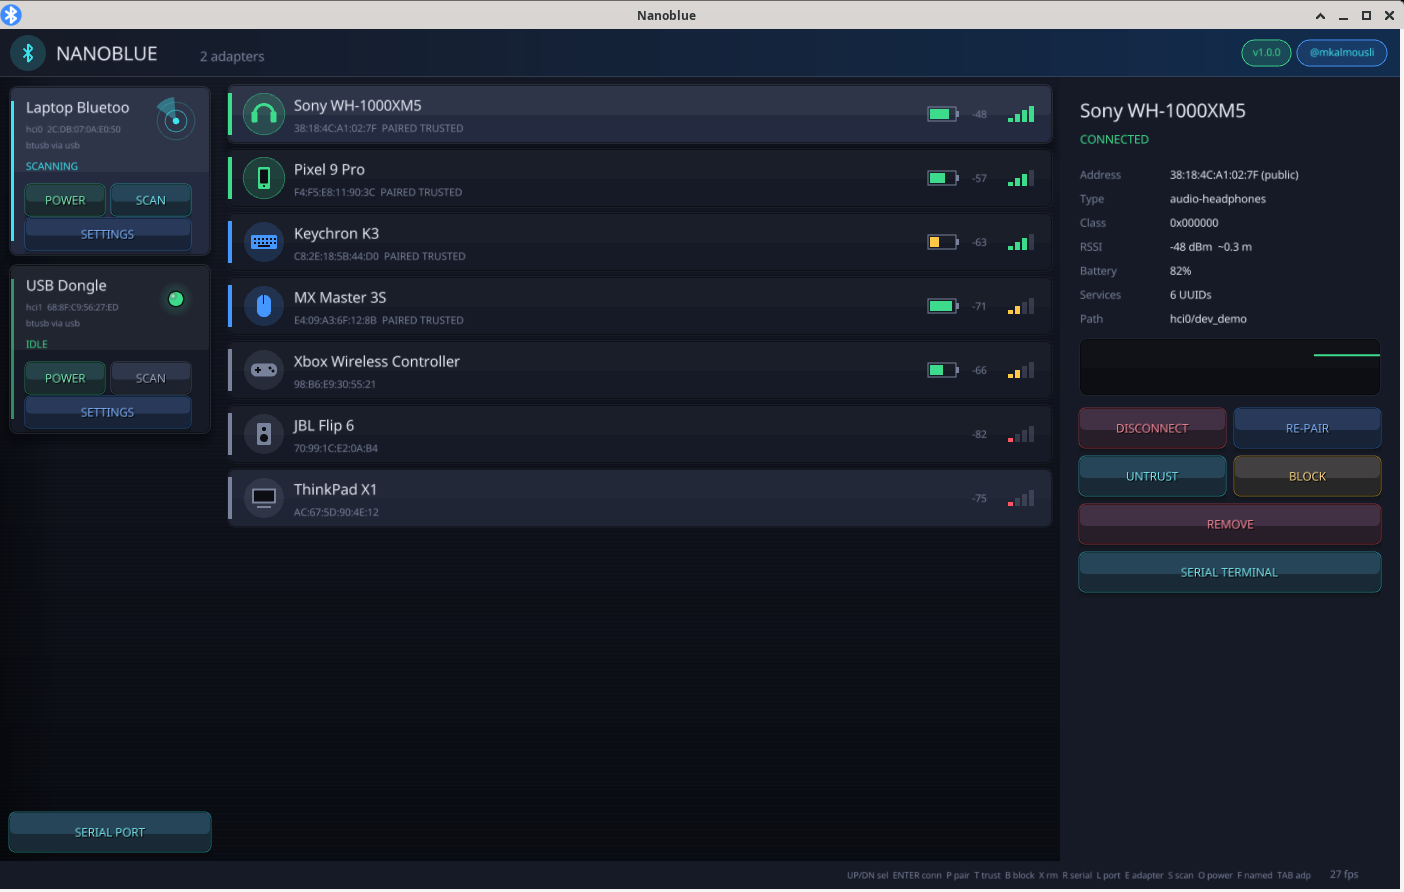
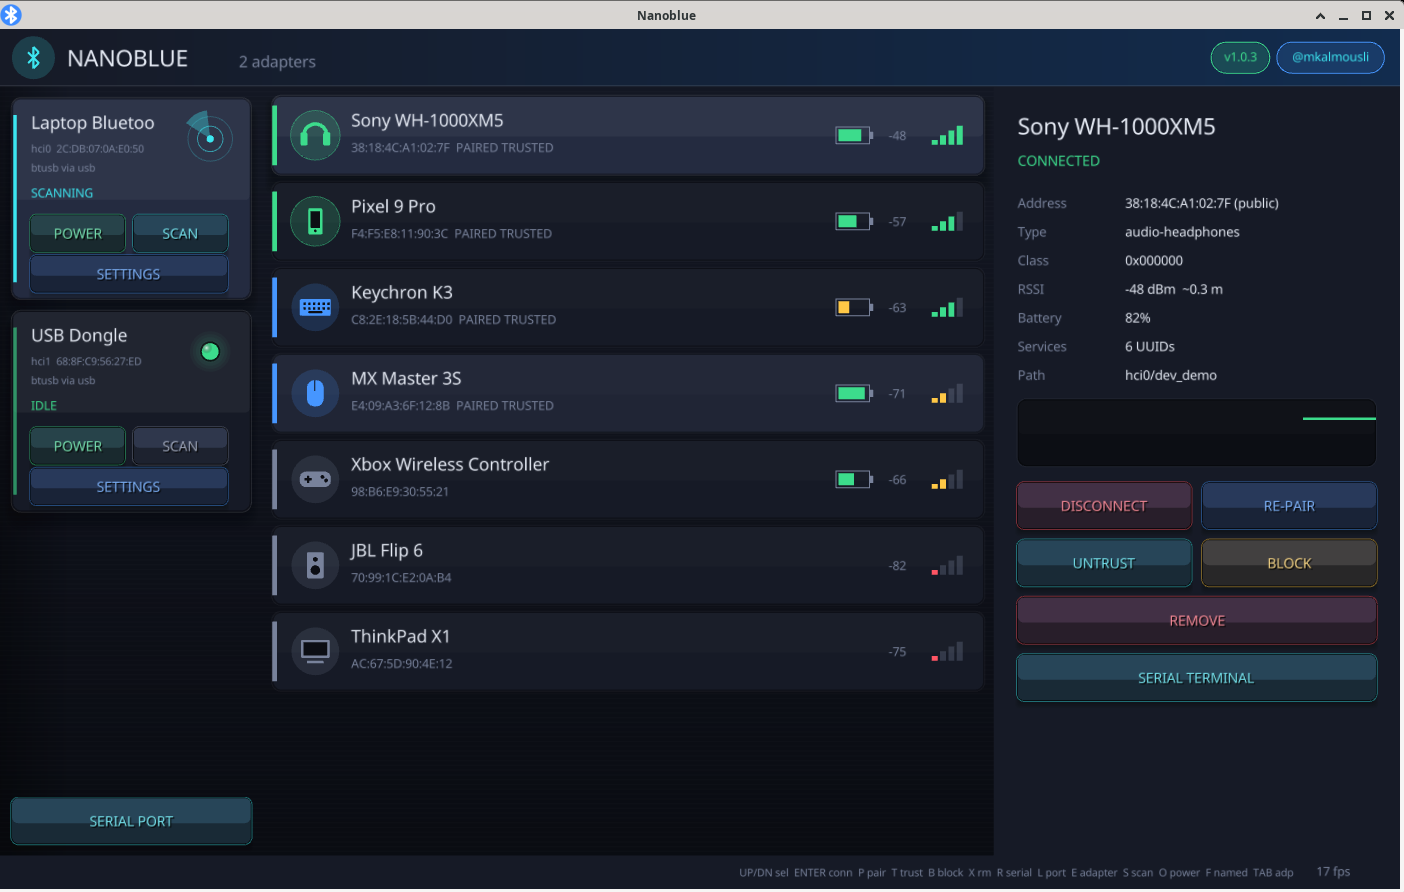
Bigger UI, scrollable sidebar/detail/settings, scrollbars; 1.0.3

diff --git a/src/devs.c b/src/devs.c
@@ -2,7 +2,7 @@
 #include <math.h>
 #include <stdio.h>
 #include <string.h>
-#define ROW 64
+#define ROW 72
 
 #define mix_(c) (Color){(c).r * 3 / 4 + 5, (c).g * 3 / 4 + 5, (c).b * 3 / 4 + 5, 255}
 
@@ -42,6 +42,7 @@ void devlist(Rectangle r, Dev *d, int n, int *sel, float *scroll) {
 		if (bt_busy && !strcmp(bt_busy_path, x->path)) spinner(xr - 120, mid, 10, C_YEL);
 	}
 	EndScissorMode();
+	scrollbar(r, *scroll, n * ROW + 8);
 }
 
 /* last ~15 s of RSSI for the selected device, sampled at 4 Hz */
@@ -65,8 +66,10 @@ static void signal_graph(Rectangle g, const Dev *d) {
 void detail(Rectangle r, const Dev *d) {
 	DrawRectangleRec(r, C_PANEL);
 	if (!d) { DrawText("Select a device", r.x + 20, r.y + 20, 20, C_DIM); return; }
+	static float off;
 	float x = r.x + 20, y = r.y + 20, bw = (r.width - 50) / 2;
 	#define KV(k, ...) (DrawText(k, x, y, 15, C_DIM), DrawText(TextFormat(__VA_ARGS__), x + 90, y, 15, C_FG), y += 24)
+	scroll_begin(r, &off, 540);
 	DrawText(TextFormat("%.20s", d->name), x, y, 26, C_FG);
 	DrawText(d->blocked ? "BLOCKED" : d->connected ? "CONNECTED" : d->paired ? "PAIRED" : "DISCOVERED", x, y + 34, 16, dev_color(d));
 	y += 70;
@@ -85,4 +88,5 @@ void detail(Rectangle r, const Dev *d) {
 	if (button((Rectangle){x + bw + 10, y + 48, bw, 38}, d->blocked ? "UNBLOCK" : "BLOCK", C_YEL)) act(d, 'b');
 	if (button((Rectangle){x, y + 96, r.width - 40, 38}, "REMOVE", C_RED)) act(d, 'x');
 	if (button((Rectangle){x, y + 144, r.width - 40, 38}, "SERIAL TERMINAL", C_CYAN)) term_open(d);
+	scroll_end(r, off, 540);
 }

diff --git a/src/scroll.c b/src/scroll.c
@@ -1,0 +1,41 @@
+#include "ui.h"
+#undef GetMousePosition
+void rlPushMatrix(void);
+void rlPopMatrix(void);
+void rlTranslatef(float x, float y, float z);
+
+static float dy;       /* scroll offset of the area being drawn */
+static Rectangle clip; /* visible part of it: the mouse is dead outside */
+static int clipped;
+
+/* mouse in logical pixels, in the coordinates of the scrolled content */
+Vector2 ui_mouse(Vector2 v) {
+	v = (Vector2){v.x / ui_s, v.y / ui_s};
+	if (clipped && !CheckCollisionPointRec(v, clip)) return (Vector2){-1e4f, -1e4f};
+	return (Vector2){v.x, v.y + dy};
+}
+
+void scrollbar(Rectangle r, float off, float content) {
+	float th;
+	if (content <= r.height) return;
+	th = r.height * r.height / content;
+	DrawRectangleRounded((Rectangle){r.x + r.width - 8, r.y + 2 + off / content * r.height, 5, th - 4}, 1, 4, ColorAlpha(C_CYAN, 0.45f));
+}
+
+/* wheel-scrolls everything drawn until scroll_end; content is its total height */
+void scroll_begin(Rectangle r, float *off, float content) {
+	float max = content > r.height ? content - r.height : 0;
+	if (CheckCollisionPointRec(GetMousePosition(), r)) *off -= GetMouseWheelMove() * 50;
+	*off = *off < 0 ? 0 : *off > max ? max : *off;
+	BeginScissorMode(r.x, r.y, r.width, r.height);
+	rlPushMatrix();
+	rlTranslatef(0, -*off, 0);
+	clip = r, clipped = 1, dy = *off;
+}
+
+void scroll_end(Rectangle r, float off, float content) {
+	rlPopMatrix();
+	EndScissorMode();
+	clipped = 0, dy = 0;
+	scrollbar(r, off, content);
+}

diff --git a/src/settings.c b/src/settings.c
@@ -28,6 +28,7 @@ static void timeout(Rectangle r, float y, const char *k, const char *prop, unsig
 
 void adp_panel(Rectangle r) {
 	static int soft, hard, have;
+	static float off;
 	static double t;
 	Adp *a;
 	float y = r.y + 70;
@@ -36,6 +37,7 @@ void adp_panel(Rectangle r) {
 	a = &bt_ads[ai];
 	if (GetTime() - t > 1) have = rf_state(&soft, &hard), t = GetTime();
 	DrawRectangleRounded((Rectangle){r.x + 8, r.y + 8, r.width - 16, r.height - 16}, 0.03f, 8, C_PANEL);
+	scroll_begin(r, &off, 480);
 	DrawText(TextFormat("ADAPTER %s SETTINGS", a->path + 11), r.x + 24, r.y + 22, 24, C_CYAN);
 	if (button((Rectangle){r.x + r.width - 110, r.y + 20, 86, 32}, "CLOSE", C_RED)) open_ = 0;
 	DrawText("Alias", r.x + 24, y + 4, 18, C_FG);
@@ -70,4 +72,5 @@ void adp_panel(Rectangle r) {
 	row(r, y += 26, "Address", a->addr);
 	row(r, y += 26, "Class", TextFormat("0x%06X", a->cls));
 	row(r, y += 26, "Modalias", a->modalias);
+	scroll_end(r, off, 480);
 }

diff --git a/src/view.c b/src/view.c
@@ -33,6 +33,9 @@ void chrome(int W, int H) {
 }
 
 void sidebar(Rectangle r, int *sa) {
+	static float off;
+	Rectangle area = {r.x, r.y, r.width, r.height - 56};
+	scroll_begin(area, &off, bt_nads * 178 + 20);
 	for (int i = 0; i < bt_nads; i++) {
 		Adp *a = &bt_ads[i];
 		Rectangle c = {r.x + 10, r.y + 10 + i * 178, r.width - 20, 168};
@@ -51,5 +54,6 @@ void sidebar(Rectangle r, int *sa) {
 		if (button((Rectangle){c.x + 102, c.y + 98, 78, 30}, "SCAN", a->scanning ? C_CYAN : C_DIM)) adp_act(i, 's');
 		if (button((Rectangle){c.x + 16, c.y + 132, 164, 30}, "SETTINGS", C_BLUE)) adp_panel_open(i);
 	}
+	scroll_end(area, off, bt_nads * 178 + 20);
 	if (button((Rectangle){r.x + 10, r.y + r.height - 48, r.width - 20, 38}, "SERIAL PORT", C_CYAN)) term_open(NULL);
 }

diff --git a/src/main.c b/src/main.c
@@ -75,7 +75,7 @@ int main(int argc, char **argv) {
 			if (IsKeyPressed(km[i].key)) act(&v[sel], km[i].what);
 		if (!tm && IsKeyPressed(KEY_L)) term_open(NULL);
 		if (!tm && nv && IsKeyPressed(KEY_R)) term_open(&v[sel]);
-		ui_s = um * fminf(fmaxf(fminf((GetScreenWidth)() / 1400.f, (GetScreenHeight)() / 860.f), 0.45f), 2.5f); /* whole UI scales with the window */
+		ui_s = um * fminf(fmaxf(fminf((GetScreenWidth)() / 1150.f, (GetScreenHeight)() / 720.f), 0.45f), 2.5f); /* whole UI scales with the window */
 		int W = GetScreenWidth(), H = GetScreenHeight();
 		BeginDrawing();
 		rlScalef(ui_s, ui_s, 1);

diff --git a/src/ui.h b/src/ui.h
@@ -50,3 +50,6 @@ void card(Rectangle r, Color base, int raised);     /* gradient surface, specula
 void led(float x, float y, float r, Color c, int on); /* glossy lens with glow */
 void backdrop(int w, int h);                        /* brushed dark backdrop with vignette */
 void brand(int W);                                  /* version pill + source link */
+void scrollbar(Rectangle r, float off, float content);
+void scroll_begin(Rectangle r, float *off, float content); /* wheel-scrolls everything drawn until scroll_end */
+void scroll_end(Rectangle r, float off, float content);

diff --git a/src/ui.c b/src/ui.c
@@ -60,5 +60,3 @@ void radar(float x, float y, float r, Color c) {
 
 Color dev_color(const Dev *d) { return d->blocked ? C_RED : d->connected ? C_GREEN : d->paired ? C_BLUE : C_DIM; }
 
-#undef GetMousePosition
-Vector2 ui_mouse(Vector2 v) { return (Vector2){v.x / ui_s, v.y / ui_s}; }

diff --git a/src/version.h b/src/version.h
@@ -1,4 +1,4 @@
-#define NB_VERSION "1.0.2"
+#define NB_VERSION "1.0.3"
 #define NB_REPO "mkalmousli/nanoblue"
 #define NB_HANDLE "mkalmousli"
 extern char upd_msg[96]; /* status of the background update check, empty when nothing to say */
